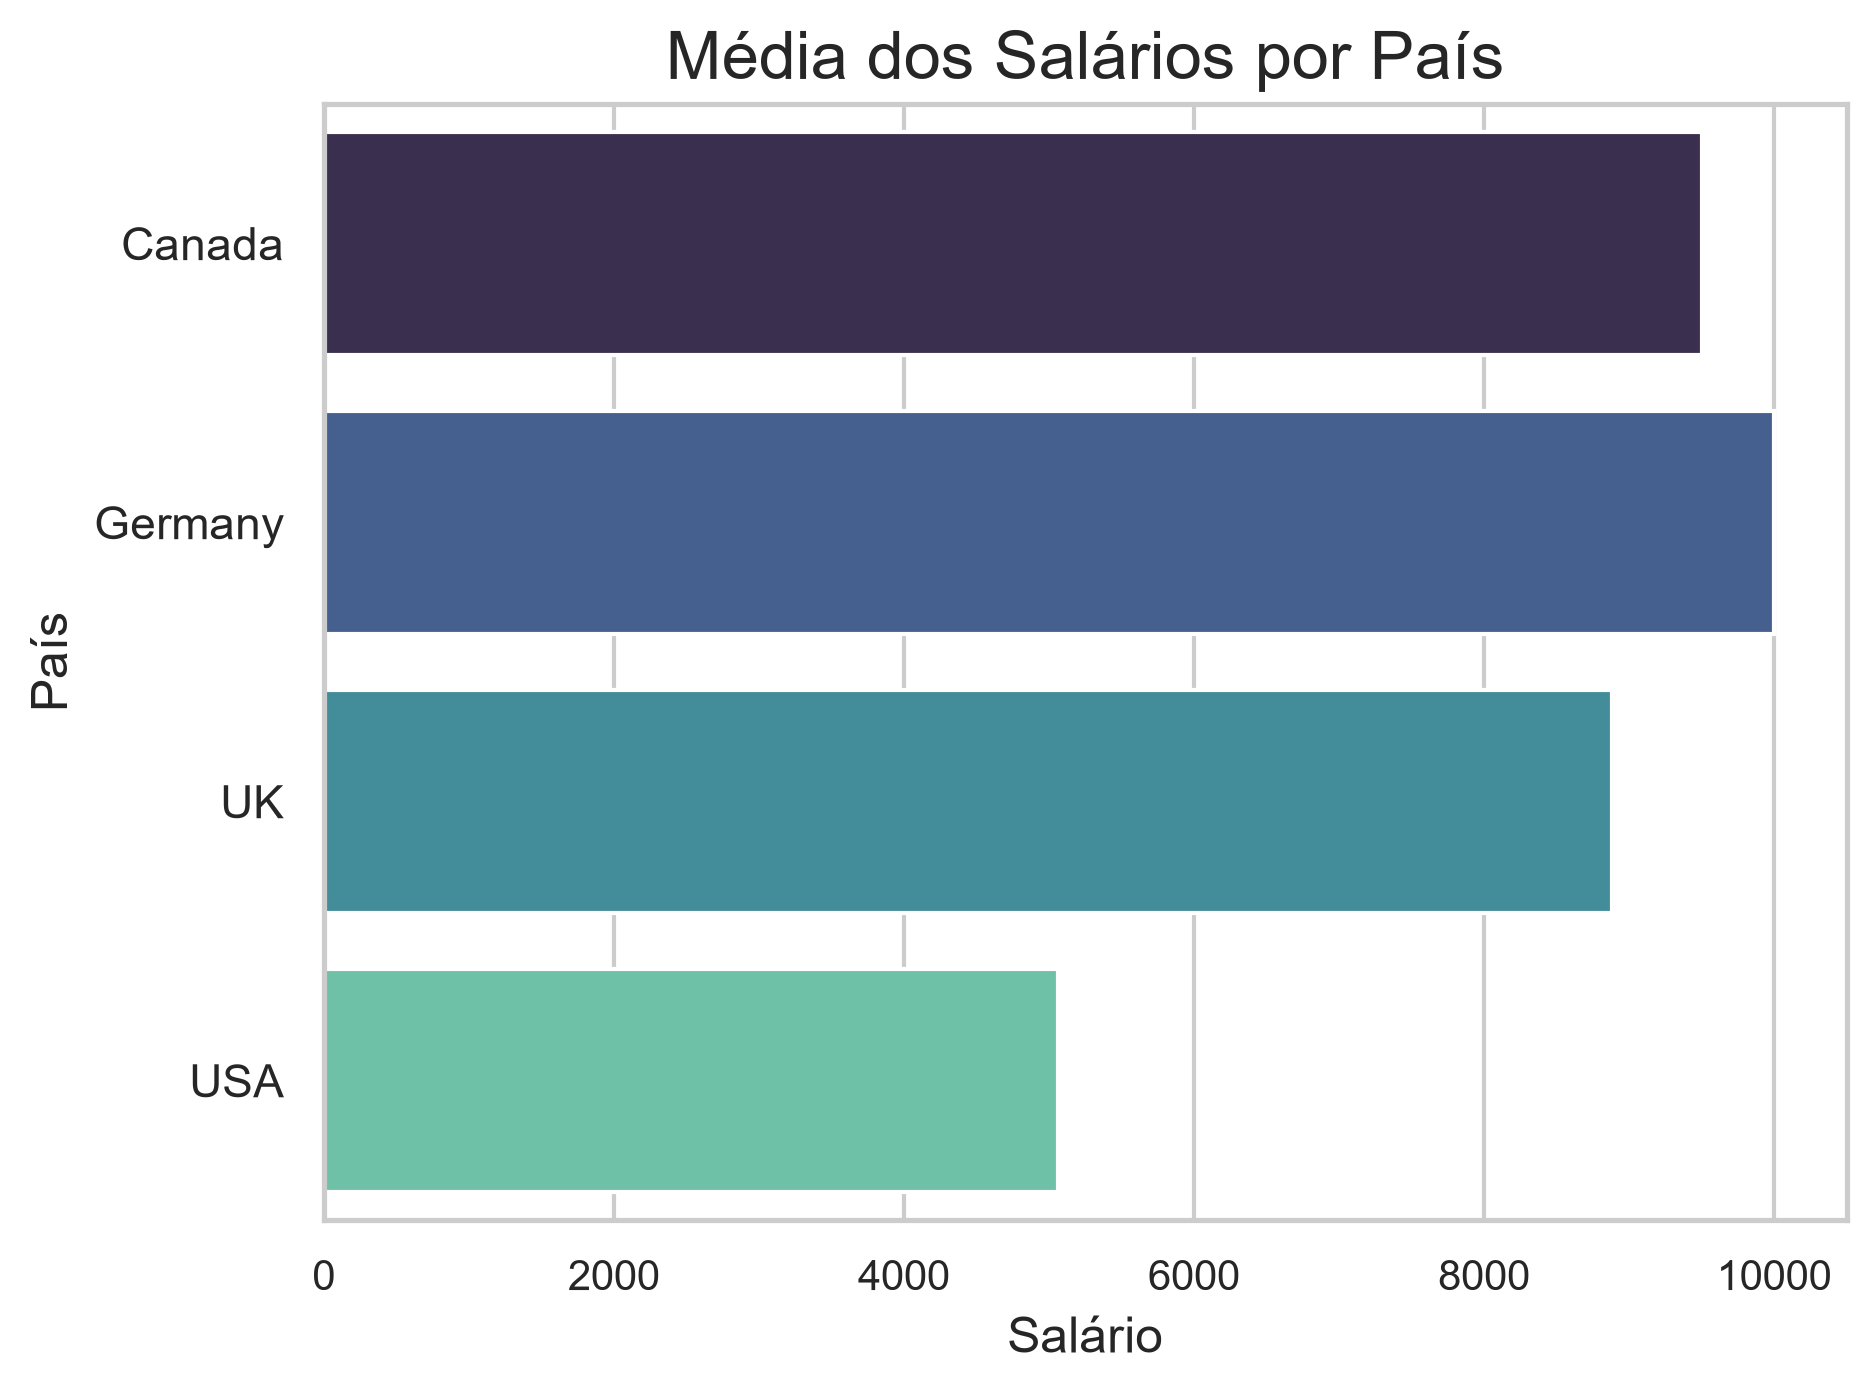
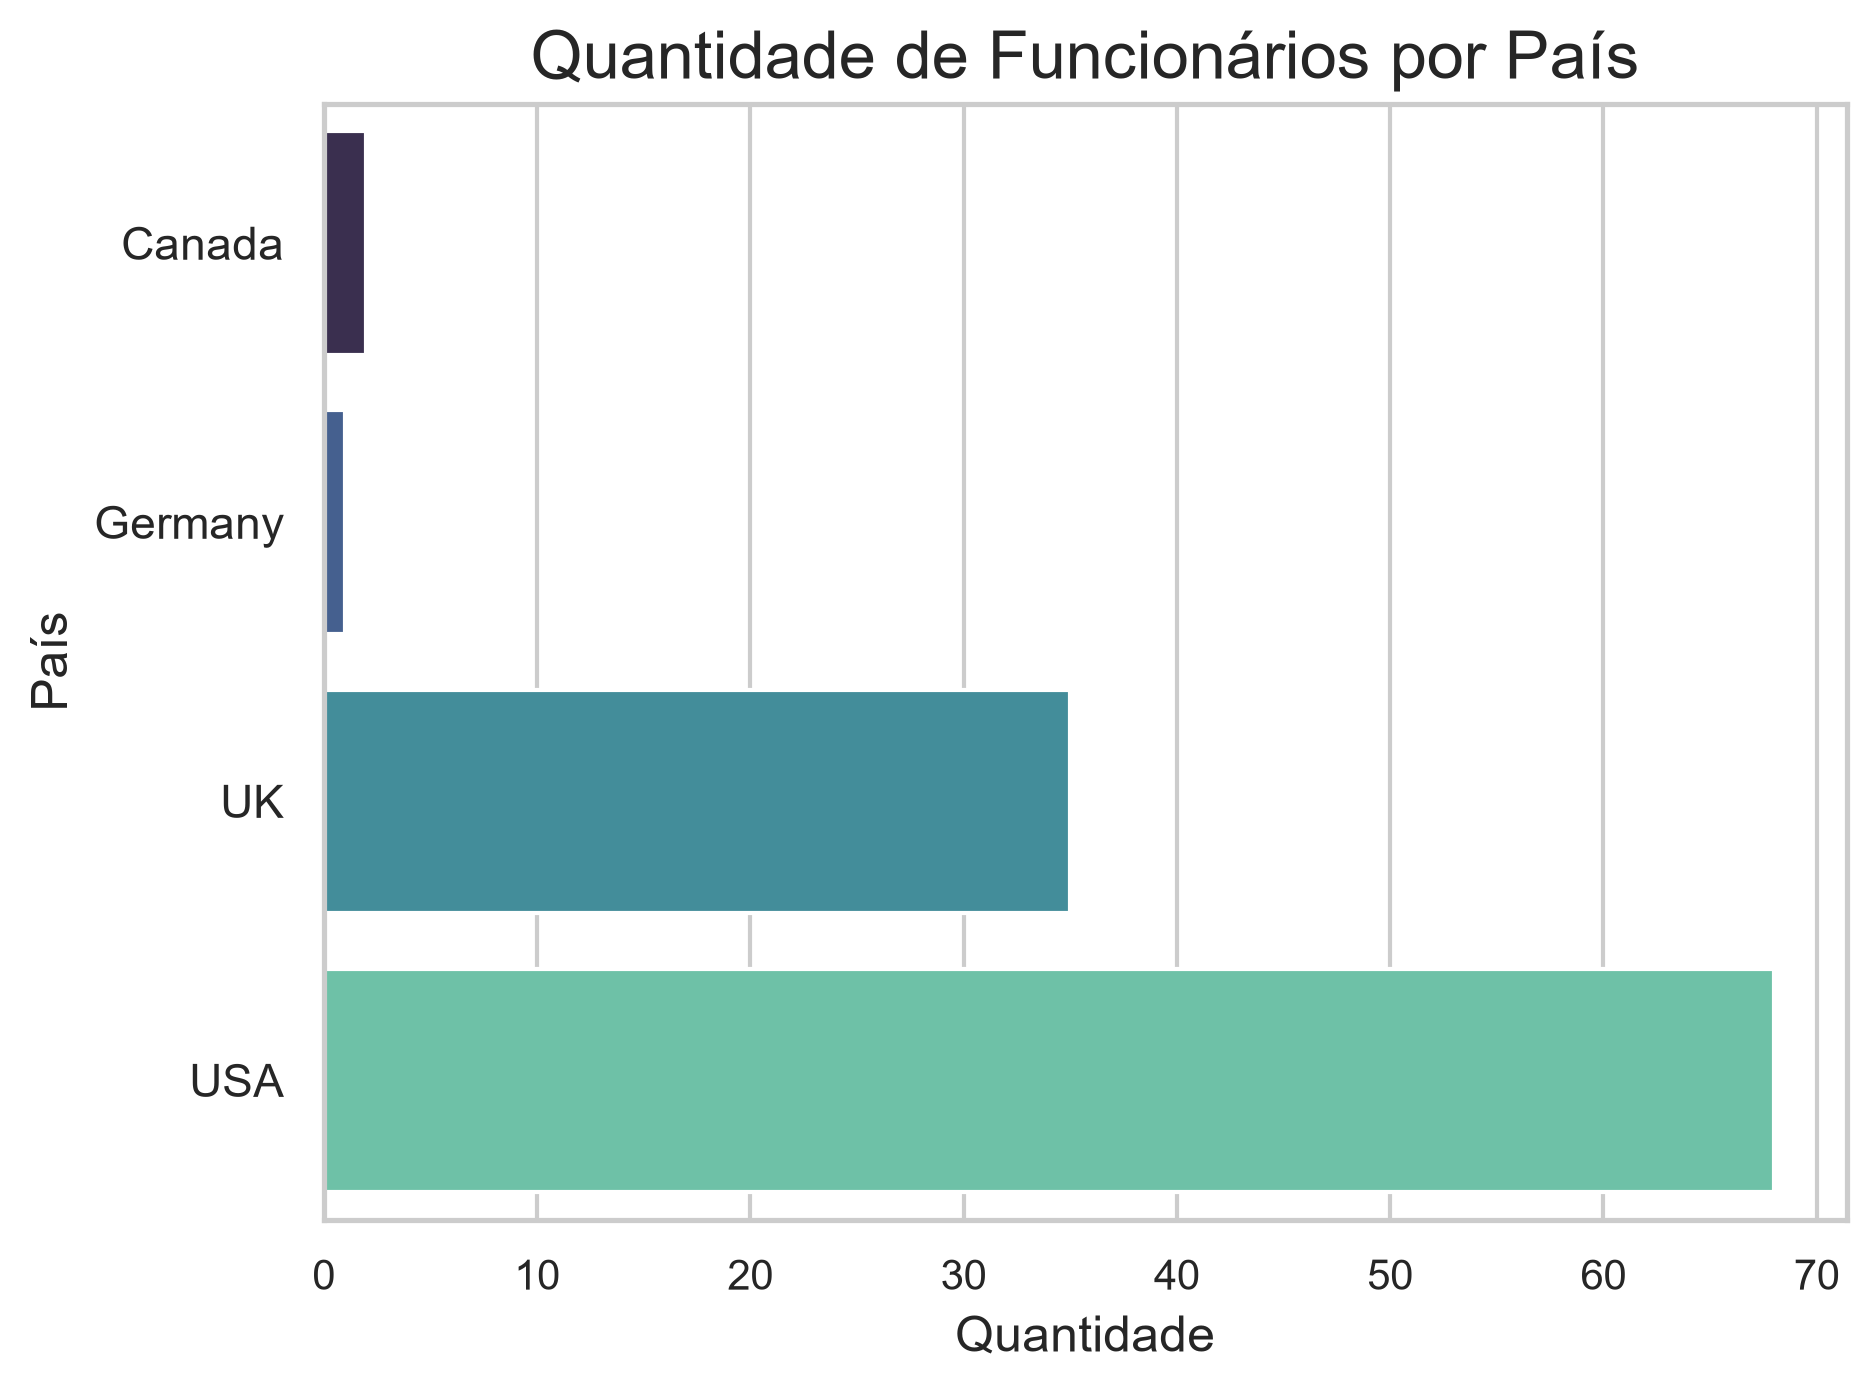
feature:finalização do  readme.md

diff --git a/README.md b/README.md
@@ -1,5 +1,7 @@
 # 📊 Projeto RH - Análise de Dados com SQL e Python
 
+![Banner](images/banner.png)
+
 ## 👨🎓 Aluno
 
 **Nome:** Lourenço Lemos
@@ -99,33 +101,53 @@ Foram realizadas:
 
 ## Distribuição Salarial
 
-![Histograma](images/query_01_histograma_salarios.png)
+![Histograma](images/query_01_histograma_distribuicao_salarial.png)
 
-O histograma mostra concentração de colaboradores nas menores faixas salariais e poucos salários elevados, caracterizando uma distribuição assimétrica à direita.
+A distribuição salarial apresenta assimetria, com uma maior concentração de colaboradores nas faixas salariais mais baixas e uma redução gradual da quantidade de colaboradores à medida que os salários aumentam. 
+
+Esse comportamento é esperado, já que a base de dados reflete os salários de uma empresa, e nessas estruturas é normal que poucos cargos de liderança concentrem salários significativamente superiores à média.
 
 ---
 
 ## Boxplot
 
-![Boxplot](images/query_01_boxplot_salarios.png)
+![Boxplot](images/query_01_boxplot_distribuicao_salarial.png)
 
-O boxplot evidencia a presença de um outlier correspondente ao maior salário da empresa, pertencente a um cargo executivo.
+O boxplot confirma a assimetria na distribuição salarial, evidenciando um outlier que corresponde ao maior salário da empresa. 
+
+Esse valor representa um cargo executivo, não caracterizando assim um erro nos dados, mas sim uma característica da empresa. 
+
+A maior parte dos salários concentra-se em uma faixa relativamente menor quando comparada ao valor máximo observado.
 
 ---
 
 ## Salário Médio por Departamento
 
-![Departamento](images/query_01_barplot_salario_departamento.png)
+![Departamento](images/query_01_barplot_salario_medio_departamento.png)
 
-Os departamentos executivos apresentam maior remuneração média, enquanto áreas operacionais concentram salários menores.
+É possível observar uma diferença grande entre as médias salariais de cada departamento.
+
+A áreas de executivos apresenta salário médio superior aos departamentos operacionais e administrativos. 
+
+Essa diferença pode ser entendida como um reflexo da complexidade das atividades realizadas em cada área da empresa.
 
 ---
 
 ## Quantidade de Funcionários
 
-![Funcionários](images/query_01_barplot_funcionarios_departamento.png)
+![Funcionários](images/query_01_barplot_quantidade_funcionarios_departamento.png)
 
-Os colaboradores concentram-se em poucos departamentos, enquanto áreas executivas possuem equipes reduzidas.
+A distribuição dos colaboradores entre os departamentos demonstra que a força de trabalho da empresa está concentrada nas áreas de venda e logística. 
+
+Já em departamentos estratégicos e executivos, como relações públicas e recursos humanos, o número de funcionários é bem menor, demonstrando uma estrutura padrão de empresas de médio e grande porte.
+
+## Conclusão da Query 1
+
+A análise dos dados salariais permitiu perceber que há uma distribuição assimétrica das remunerações, com predominância de salários mais baixos e poucos funcionários com cargos de alta remuneração.
+
+Além disso, foi possível observar que departamentos executivos concentram os maiores salários médios, enquanto as áreas operacionais tem a maior quantidade de colaboradores. 
+
+Esses resultados demonstram que a empresa analisada possui uma estrutura organizacional padrão para uma empresa multinacional.
 
 ---
 
@@ -158,17 +180,21 @@ Foram desenvolvidos gráficos para analisar:
 
 ## Funcionários por Região
 
-![Região](images/query_02_barplot_funcionarios_regiao.png)
+![Região](images/query_02_barplot_quantidade_funcionarios_regiao.png)
 
-A maior parte dos colaboradores concentra-se em uma única região geográfica.
+O gráfico de distribuição de colaboradores por regiões demonstra que a empresa concentra a maior parte de sua força de trabalho na América, o que pode indicar maior presença operacional nesse mercado.
+ 
+O gráfico demonstra uma presença de funcionários bem menor na Europa, sugerindo operações menores ou escritórios regionais.
 
 ---
 
 ## Salário Médio por Região
 
-![Salário Região](images/query_02_barplot_salario_regiao.png)
+![Salário Região](images/query_02_barplot_salario_medio_regiao.png)
 
-Foram observadas diferenças salariais entre as regiões analisadas.
+Esse gráfico nos permite vizualizar que há uma diferença de média salarial grande entre a Europa e a América, sendo a média salarial europeia quase o dobro da média na América. 
+
+Não é possível determinar uma causa somente analisando esse gráfico, já que essa variação pode estar relacionada ao custo de vida de cada região, às políticas salariais locais ou ao perfil dos cargos existentes em cada região.
 
 ---
 
@@ -176,15 +202,19 @@ Foram observadas diferenças salariais entre as regiões analisadas.
 
 ![País](images/query_02_barplot_quantidade_funcionarios_pais.png)
 
-Os Estados Unidos concentram a maior parte da força de trabalho da empresa.
+Os Estados Unidos concentram a maior parte dos colaboradores da base analisada, enquanto países como Reino Unido, Canadá e Alemanha apresentam equipes significativamente menores. 
+
+Esse resultado reforça a noção de que os Estados Unidos são o principal mercado e centro operacional da empresa.
 
 ---
 
 ## Salário Médio por País
 
-![Salário País](images/query_02_barplot_salario_pais.png)
+![Salário País](images/query_02_barplot_salario_funcionarios_pais.png)
 
-Os salários médios variam entre os países analisados, indicando diferenças na estrutura organizacional.
+A remuneração média varia entre os países analisados, indicando diferenças nas estruturas organizacionais e também a possibilidade de políticas de remuneração diferentes. 
+
+Essas diferenças podem refletir tanto características econômicas locais quanto a distribuição de cargos de maior responsabilidade em determinados países. A Alemanha, por exemplo, e o país com menor número de funcionários, mas é o país com a maior média salarial, o que indica que os funcionários alocados nesse lugar devem ter cargos mais altos.
 
 ---
 
@@ -192,7 +222,9 @@ Os salários médios variam entre os países analisados, indicando diferenças n
 
 ![Cidade](images/query_02_barplot_funcionarios_cidade.png)
 
-As cidades com maior número de colaboradores representam os principais polos administrativos da empresa.
+A concentração dos colaboradores em poucas cidades, uma nos EUA e outra no Reino Unido, mostra a existência de polos administrativos e operacionais. 
+
+Essa distribuição pode auxiliar na definição de estratégias relacionadas à gestão de pessoas, expansão das operações e alocação de recursos..
 
 ---
 
@@ -204,7 +236,7 @@ A análise permitiu identificar que:
 - Poucos colaboradores concentram os maiores salários.
 - Os departamentos executivos apresentam maior remuneração média.
 - A maior parte dos funcionários está concentrada nos Estados Unidos.
-- Existem diferenças salariais entre regiões e países.
+- Existem diferenças salariais grandes entre regiões e países.
 - A estrutura da empresa apresenta características típicas de uma organização multinacional.
 
 ---
@@ -214,7 +246,7 @@ A análise permitiu identificar que:
 1. Clone o repositório
 
 ```bash
-git clone <URL_DO_REPOSITÓRIO>
+git clone <https://github.com/lourencolemos/projeto-rh-sql-python>
 ```
 
 2. Instale as dependências
@@ -240,12 +272,9 @@ notebooks/analise_rh.ipynb
 Como evolução deste projeto, podem ser implementadas as seguintes melhorias:
 
 - Dashboard interativo em Power BI.
-- Dashboard em Streamlit.
 - Filtros dinâmicos.
 - Comparação salarial por cargo.
-- Análise temporal de admissões.
 - Indicadores de Recursos Humanos (KPIs).
-- Automatização da extração dos dados.
 
 ---
 